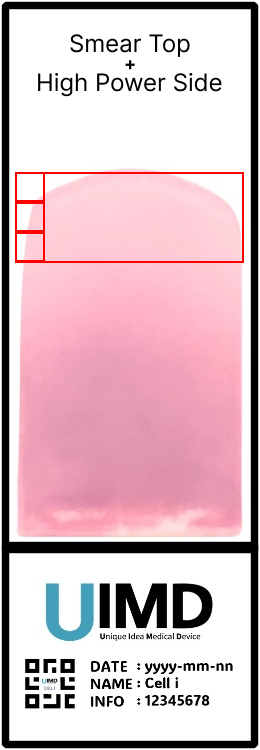
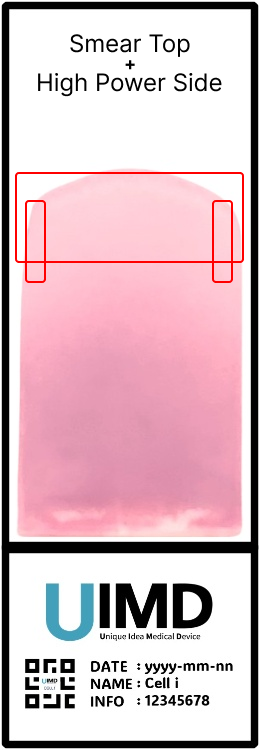
0.2.57v_(edge shot type, position margin 튜토리얼 이미지 추가 및 불필요한 console log 삭제)

Changed region(s): [[0.0615, 0.2147, 0.1846, 0.3987], [0.8615, 0.2453, 0.9231, 0.3987], [0.8, 0.2453, 0.8308, 0.3987]]

diff --git a/src/views/setting/analysisDatabase/component/cellImageAnalyzed.vue b/src/views/setting/analysisDatabase/component/cellImageAnalyzed.vue
@@ -62,24 +62,24 @@
           </td>
         </tr>
         <tr v-show="projectType === 'pb' && viewerCheck !== 'viewer'">
-          <th>
+          <th class="pos-relative">
             Edge Shot Type
-<!--            <font-awesome-icon-->
-<!--                :icon="['fas', 'circle-info']"-->
-<!--                @mouseenter="() => informationFontHover('edgeShotType', 'hover')"-->
-<!--                @mouseleave="informationFontHover('edgeShotType', 'leave')"-->
-<!--            />-->
+            <font-awesome-icon
+                :icon="['fas', 'circle-info']"
+                @mouseenter="() => informationFontHover('edgeShotType', 'hover')"
+                @mouseleave="informationFontHover('edgeShotType', 'leave')"
+            />
+            <div v-show="showEdgeShotTypeInfo" class="tutorial-edgeShotType-container">
+              <img :src="smearTop" width="140" />
+              <img :src="smearTopLowPower" width="140" />
+              <img :src="smearTopHighPower" width="140" />
+            </div>
           </th>
           <td>
             <select v-model='edgeShotType'>
               <option v-for="type in edgeShotTypeList" :key="type.value" :value="type.value">{{ type.text }}</option>
             </select>
           </td>
-          <div v-show="showEdgeShotTypeInfo" style="position: absolute;">
-            <img :src="smearTop" width="100" />
-            <img :src="smearTopLowPower" width="100" />
-            <img :src="smearTopHighPower" width="100" />
-          </div>
         </tr>
         <!--      BF analysis values-->
         <tr v-if="projectType === 'pb' && viewerCheck !== 'viewer'">
@@ -93,7 +93,17 @@
         </tr>
 
         <tr v-if="projectType === 'pb' && viewerCheck !== 'viewer'">
-          <th rowspan="3">Common</th>
+          <th rowspan="3" class="pos-relative">
+            Common
+            <font-awesome-icon
+                :icon="['fas', 'circle-info']"
+                @mouseenter="() => informationFontHover('positionMargin', 'hover')"
+                @mouseleave="informationFontHover('positionMargin', 'leave')"
+            />
+            <div v-show="showPositionMarginTutorialImg" class="tutorial-positionMargin-container">
+              <img :src="commonPositionMargin" width="140" />
+            </div>
+          </th>
           <th>Wbc Position Margin</th>
           <td>
             <select v-model='wbcPositionMargin'>
@@ -351,7 +361,7 @@ import {
 import Confirm from "@/components/commonUi/Confirm.vue";
 import {useRouter} from "vue-router";
 import ConfirmThreeBtn from "@/components/commonUi/ConfirmThreeBtn.vue";
-import slideImage from "@/assets/images/slide.jpg";
+import commonPositionMargin from "@/assets/images/commonMargin.png";
 import smearTop from "@/assets/images/smearTop.png";
 import smearTopLowPower from "@/assets/images/smearTopLowPower.png";
 import smearTopHighPower from "@/assets/images/smearTopHighPower.png";
@@ -432,6 +442,7 @@ const showUploadSelectModal = ref(false);
 const possibleUploadFileNames = ref([]);
 const selectedUploadFile = ref('');
 const showEdgeShotTypeInfo = ref(false);
+const showPositionMarginTutorialImg = ref(false);
 
 instance?.appContext.config.globalProperties.$socket.on('downloadUploadFinished', async (downloadUploadObj: { type: 'download' | 'upload'; isFinished: boolean}) => {
   if (downloadUploadObj?.isFinished) {
@@ -657,14 +668,18 @@ const toggleKeepPage = () => {
   keepPage.value = !keepPage.value;
 };
 
-const informationFontHover = (type: 'edgeShotType', hoverStatus: 'hover' | 'leave') => {
+const informationFontHover = (type: 'edgeShotType' | 'positionMargin', hoverStatus: 'hover' | 'leave') => {
   if (hoverStatus === 'leave') {
     showEdgeShotTypeInfo.value = false;
+    showPositionMarginTutorialImg.value = false;
     return;
   }
   switch (type) {
     case 'edgeShotType':
       showEdgeShotTypeInfo.value = true;
+      break;
+    case 'positionMargin':
+      showPositionMarginTutorialImg.value = true;
       break;
     default:
       break;

diff --git a/src/App.vue b/src/App.vue
@@ -425,7 +425,7 @@ async function socketData(data: any) {
         break;
       case 'ERROR_CLEAR':
         showAlert.value = false;
-        console.log('err')
+        console.log('error clear');
         break;
     }
 
@@ -535,7 +535,6 @@ async function socketData(data: any) {
         completeSlot.isNormal = 'Y' // PB 비정상 클래스 체크
 
         if (completeSlot.testType === '01') {
-          console.log('normalItems.value', normalItems.value);
           const {isNormal, classInfo} = checkPbNormalCell(completeSlot.wbcInfo, normalItems.value);
           completeSlot.isNormal = isNormal;
         }
@@ -559,7 +558,6 @@ async function socketData(data: any) {
         const url_new = `${path}/${completeSlot.slotId}/${folderPath}/${completeSlot.slotId}.json`;
         const response_new = await readJsonFile({fullPath: url_new});
 
-        console.log("SAVETESTHISTORY isNsNbIntegration", isNsNbIntegrationLocal.value);
         for (const el of newWbcInfo?.wbcInfo[0]) {
           if (!el.images) {
             el.images = []; // images 프로퍼티가 없으면 추가하고 빈 배열로 초기화
@@ -757,7 +755,6 @@ const emitSocketData = async (payload: any) => {
 };
 
 const sendSettingInfo = () => {
-  console.log("SEND_SETTING isNsNbIntegration", isNsNbIntegrationLocal.value);
   const req = {
     jobCmd: 'SETTINGS',
     reqUserId: '',

diff --git a/public/config.js b/public/config.js
@@ -3,9 +3,9 @@ window.MAIN_API_IP = 'http://192.168.0.131:80/api'; // MultiViewer - 'http://192
 window.MAIN_API = 'http://192.168.0.131:80/api'; // MultiViewer - 'http://192.168.0.100:80/api',   Main PC Only - 'http://127.0.0.1:3002'
 window.MAIN_WEBSOCKET_IP = 'http://192.168.0.131:3002';  // MultiViewer - 'http://192.168.0.100:3002', Main PC Only - 'http://127.0.0.1:3002'
 window.PROJECT_TYPE='pb';  // pb or bm
-window.PROJECT_VERSION='2.00.72';
+window.PROJECT_VERSION='2.00.73';
 window.WEB_BACKEND_VERSION='0.0.83v';
-window.WEB_FRONTEND_VERSION='0.2.56v';
+window.WEB_FRONTEND_VERSION='0.2.57v';
 window.MACHINE_VERSION='12a';  // 12a or 100a
 window.FORCE_VIEWER = 'main'; // main or viewer
 window.PORT = '8080';

diff --git a/src/assets/css/layout.css b/src/assets/css/layout.css
@@ -5085,6 +5085,21 @@ progress::-moz-progress-bar {
     margin-top: 10px; /* 텍스트와 프로그래스 바 간격 */
 }
 
+.tutorial-edgeShotType-container {
+    position: absolute;
+    top: 0;
+    left: 140px;
+    display: flex;
+    z-index: 12;
+}
+
+.tutorial-positionMargin-container {
+    position: absolute;
+    top: 0;
+    left: 90px;
+    z-index: 10;
+}
+
 
 @media screen and (max-width: 1900px) {
     .contentRight > div[data-v-c20ace0e]:first-child {
